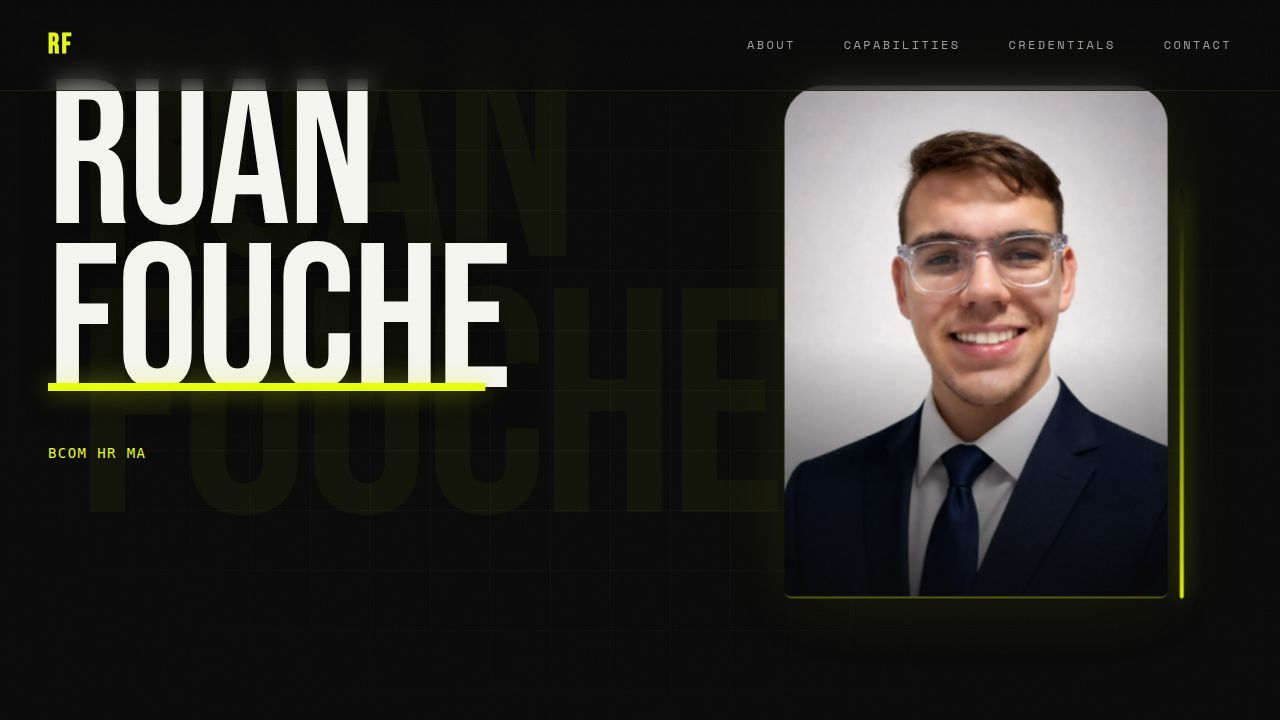
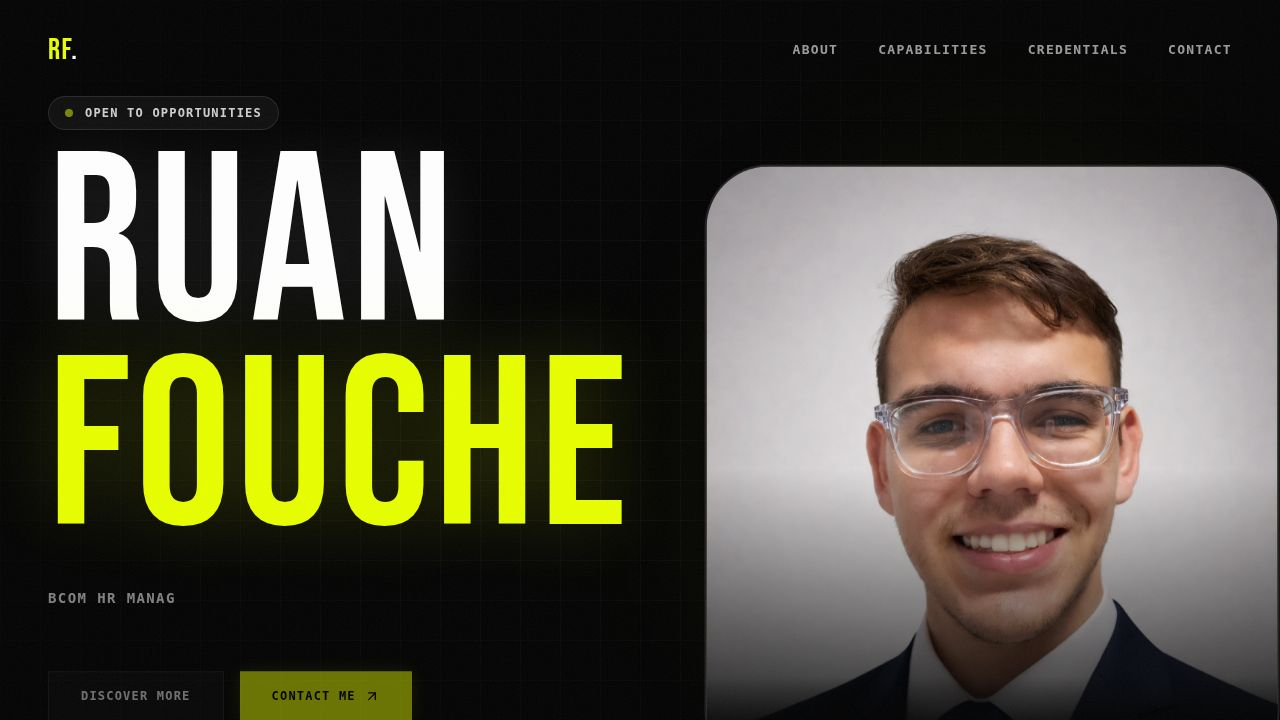
Update performance management text and refine photo display
Corrected "PERFORMANCE MGT" to "PERFORMANCE MANAGEMENT", and updated the portrait's styling with rounded corners, a border, and gradient overlays for a more polished aesthetic.

Replit-Commit-Author: Agent
Replit-Commit-Session-Id: 3ae201b4-185c-47d4-a7b9-d4b6ed73c38d
Replit-Commit-Checkpoint-Type: full_checkpoint
Replit-Commit-Event-Id: ecbdb4c2-63f4-41ec-b60a-69bdeefec392
Replit-Commit-Screenshot-Url: https://storage.googleapis.com/screenshot-production-us-central1/0d5e4bf7-5125-4d8c-9cd7-56b269695518/3ae201b4-185c-47d4-a7b9-d4b6ed73c38d/omWRlzq
Replit-Helium-Checkpoint-Created: true

diff --git a/client/src/pages/home.tsx b/client/src/pages/home.tsx
@@ -400,20 +400,25 @@ export default function Home() {
             animate={{ opacity: 1, scale: 1, y: 0 }}
             transition={{ duration: 1.2, delay: 0.5, ease: [0.16, 1, 0.3, 1] }}
           >
-            {/* Decorative elements behind image */}
-            <div className="absolute inset-0 bg-gradient-to-t from-[#050505] via-transparent to-transparent z-20 pointer-events-none h-32 bottom-0 top-auto" />
+            {/* Decorative glow behind image */}
             <div className="absolute -inset-4 bg-[#E8FF00]/5 blur-[100px] z-0 rounded-full" />
             
-            <img 
-              src={PHOTO} 
-              alt="Ruan Fouche Portrait" 
-              className="relative z-10 w-[85%] sm:w-[70%] lg:w-full object-contain object-bottom drop-shadow-[0_20px_50px_rgba(0,0,0,0.5)] max-h-[60vh] lg:max-h-[85vh]"
-              style={{
-                filter: "contrast(1.1) saturate(1.1)",
-                maskImage: "linear-gradient(to top, transparent 0%, black 15%)",
-                WebkitMaskImage: "linear-gradient(to top, transparent 0%, black 15%)",
-              }}
-            />
+            {/* Photo container with rounded corners and border */}
+            <div className="relative z-10 w-[85%] sm:w-[70%] lg:w-full rounded-3xl lg:rounded-[4rem] overflow-hidden border-2 border-white/10 shadow-[0_20px_60px_rgba(0,0,0,0.4)] max-h-[60vh] lg:max-h-[85vh] flex flex-col">
+              <img 
+                src={PHOTO} 
+                alt="Ruan Fouche Portrait" 
+                className="w-full h-full object-cover object-top"
+                style={{
+                  filter: "contrast(1.1) saturate(1.1)",
+                }}
+                loading="lazy"
+              />
+              {/* Gradient overlay */}
+              <div className="absolute inset-0 bg-gradient-to-t from-[#050505] via-transparent to-transparent" />
+              {/* Bottom fade overlay */}
+              <div className="absolute bottom-0 left-0 right-0 h-24 bg-gradient-to-t from-[#050505] via-[#050505]/70 to-transparent" />
+            </div>
           </motion.div>
           
         </div>
@@ -502,7 +507,7 @@ export default function Home() {
               { title: "EMPLOYEE RELATIONS", desc: "Fostering positive workplace environments through conflict resolution and policy development." },
               { title: "ORGANIZATIONAL BEHAVIOR", desc: "Analyzing how individuals and teams interact within corporate structures." },
               { title: "LABOUR LEGISLATION", desc: "Understanding the framework of SA employment laws (BCEA, LRA, EEA)." },
-              { title: "PERFORMANCE MGT", desc: "Systems and processes designed to evaluate, develop, and reward contributions." },
+              { title: "PERFORMANCE MANAGEMENT", desc: "Systems and processes designed to evaluate, develop, and reward contributions." },
               { title: "STRATEGIC HR", desc: "Aligning human capital initiatives directly with broader business objectives." }
             ].map((skill, i) => (
               <motion.div
